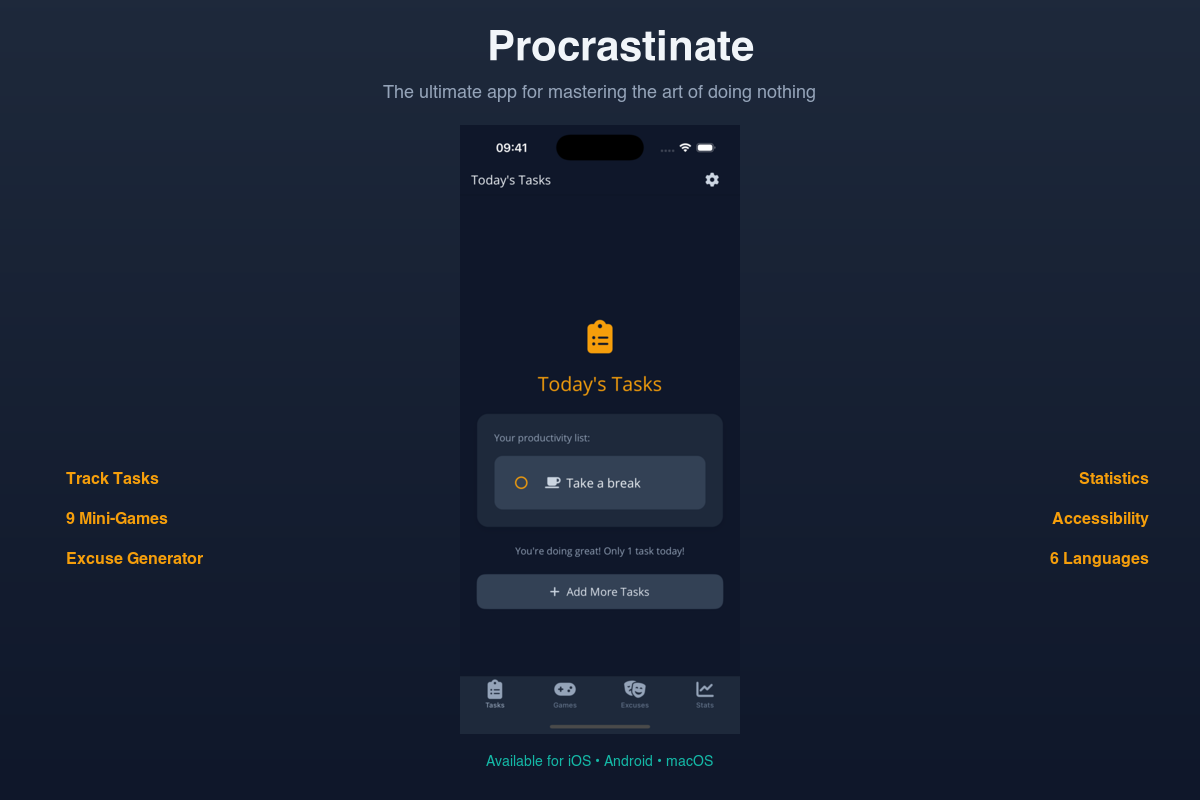
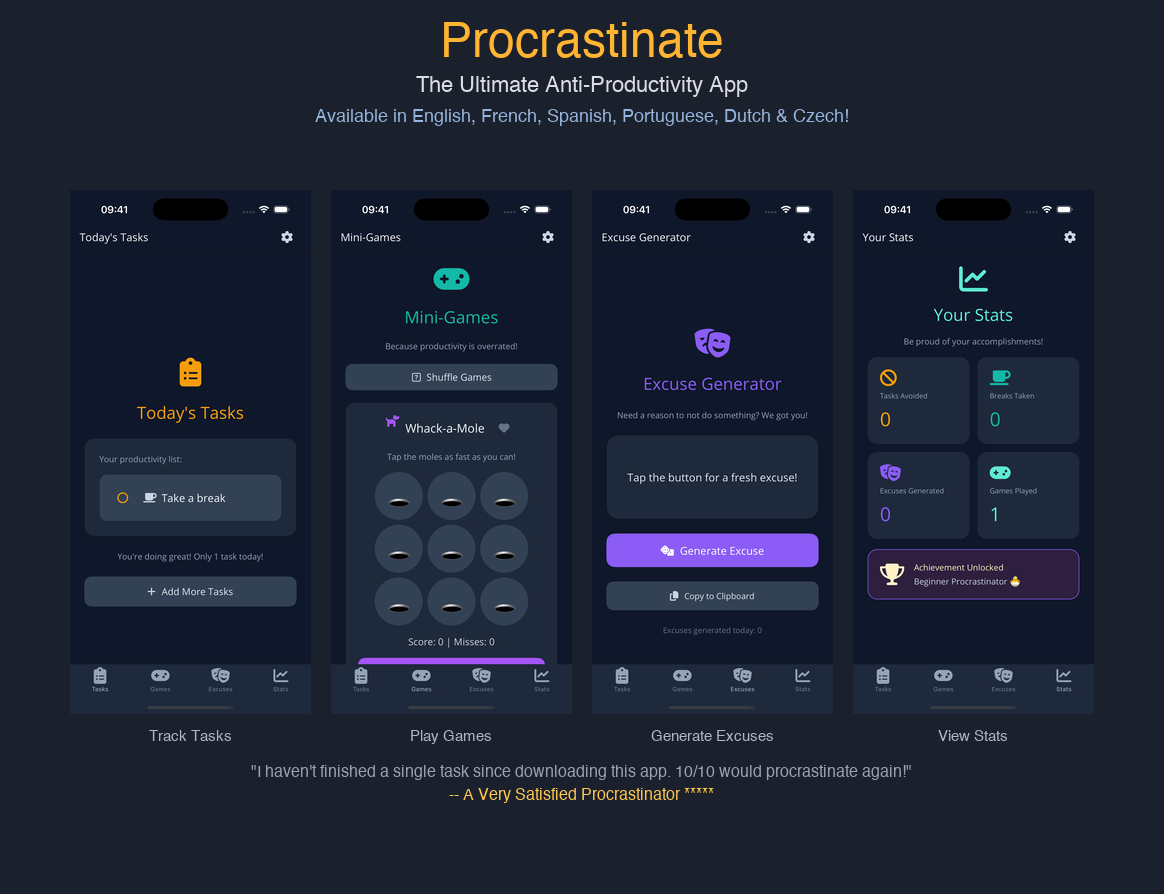
Update collage with all 4 pages, correct languages, tagline and testimonial

diff --git a/.github/copilot-instructions.md b/.github/copilot-instructions.md
@@ -1,0 +1,42 @@
+# Copilot Instructions for Procrastinate
+
+## iOS Simulator Interaction (macOS)
+
+To click/tap in iOS Simulator when `simctl io tap` doesn't exist, use AppleScript:
+
+```bash
+# Get window position and size first
+osascript -e '
+tell application "Simulator" to activate
+delay 0.3
+tell application "System Events"
+    tell process "Simulator"
+        set windowPos to position of window 1
+        set windowSize to size of window 1
+        return {windowPos, windowSize}
+    end tell
+end tell
+'
+
+# Click at specific coordinates (absolute screen position)
+osascript -e '
+tell application "Simulator" to activate
+delay 0.3
+tell application "System Events"
+    click at {windowX + relativeX, windowY + relativeY}
+end tell
+'
+```
+
+For tab bar navigation on iPhone 16 Pro (window ~456x972):
+- Tab bar is ~60px from window bottom
+- 4 tabs: centers at ~57, 171, 285, 399 from left edge of device area
+
+Take screenshot: `xcrun simctl io <UDID> screenshot output.png`
+
+## Taking App Screenshots for Collage
+
+1. Build and run: `dotnet build -f net10.0-ios && xcrun simctl install <UDID> bin/Debug/net10.0-ios/iossimulator-arm64/procrastinate.app && xcrun simctl launch <UDID> com.companyname.procrastinate`
+2. Use AppleScript clicks to navigate between tabs
+3. Use `xcrun simctl io <UDID> screenshot` for each page
+4. Create collage with Python/Pillow (see screenshots_collage.png)
